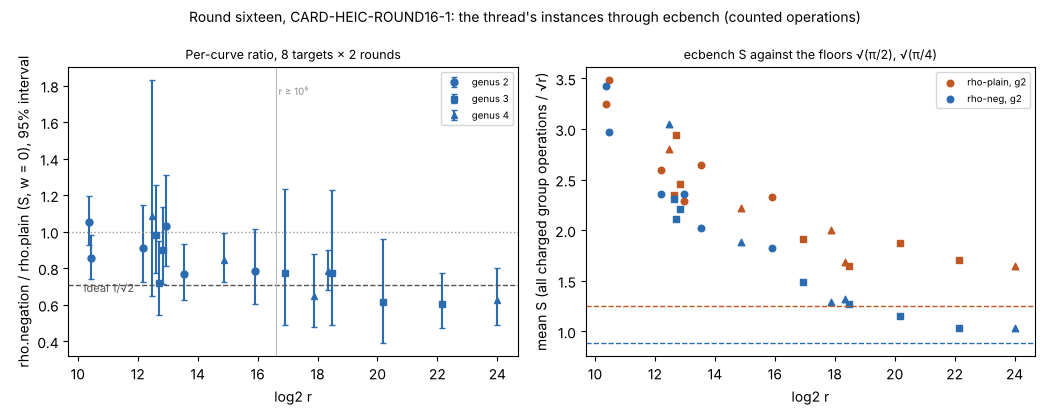
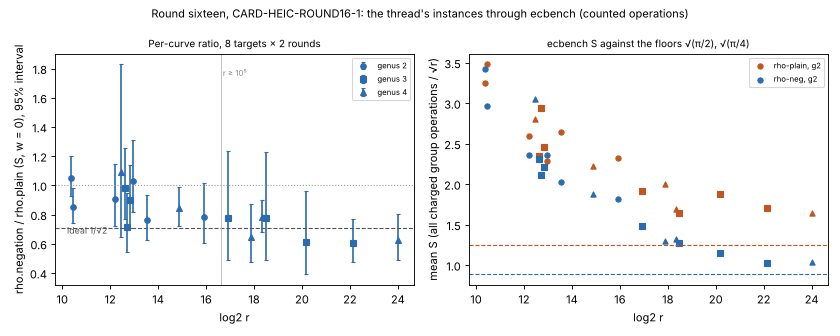
Keep round sixteen's CI-replayed evidence in git; shrink its graph under the data threshold
- .artifacts/config.json: keep the r16 session's records.jsonl (ecbench CI
  replays every committed session by path, as for the earlier ecbench
  sessions already on the list) and the card's two bound outputs
  (cmd1.stderr, cmd2.stdout; tools/task_card.py check-relay reads them via the
  receipt, which binds their sha256).
- reports/round16/r16.png re-rendered at 80 dpi (54.6 KB, under 64 KiB) from
  the same recorded values.

Moving them to the store instead would put the first .artifacts.json under
research/, and wire_workflows.py --check then fails 356 workflows that read
research/ without a pull step (an owner-side migration, not this PR's).

Claude-Session: https://claude.ai/code/session_01R5QvDJCgmyNYcR1xz195XP

diff --git a/research/hyperelliptic_ecbench_20261024/reports/round16/plot_r16.py b/research/hyperelliptic_ecbench_20261024/reports/round16/plot_r16.py
@@ -31,4 +31,4 @@ bx.axhline(1.2533, color="#c05621", ls="--", lw=1); bx.axhline(0.8862, color="#2
 bx.set_xlabel("log2 r"); bx.set_ylabel("mean S (all charged group operations / √r)")
 bx.set_title("ecbench S against the floors √(π/2), √(π/4)", fontsize=9); bx.legend(fontsize=7)
 fig.suptitle("Round sixteen, CARD-HEIC-ROUND16-1: the thread's instances through ecbench (counted operations)", fontsize=10)
-fig.tight_layout(); fig.savefig(sys.argv[3])
+fig.tight_layout(); fig.savefig(sys.argv[3], dpi=int(sys.argv[5]) if len(sys.argv) > 5 else None)
